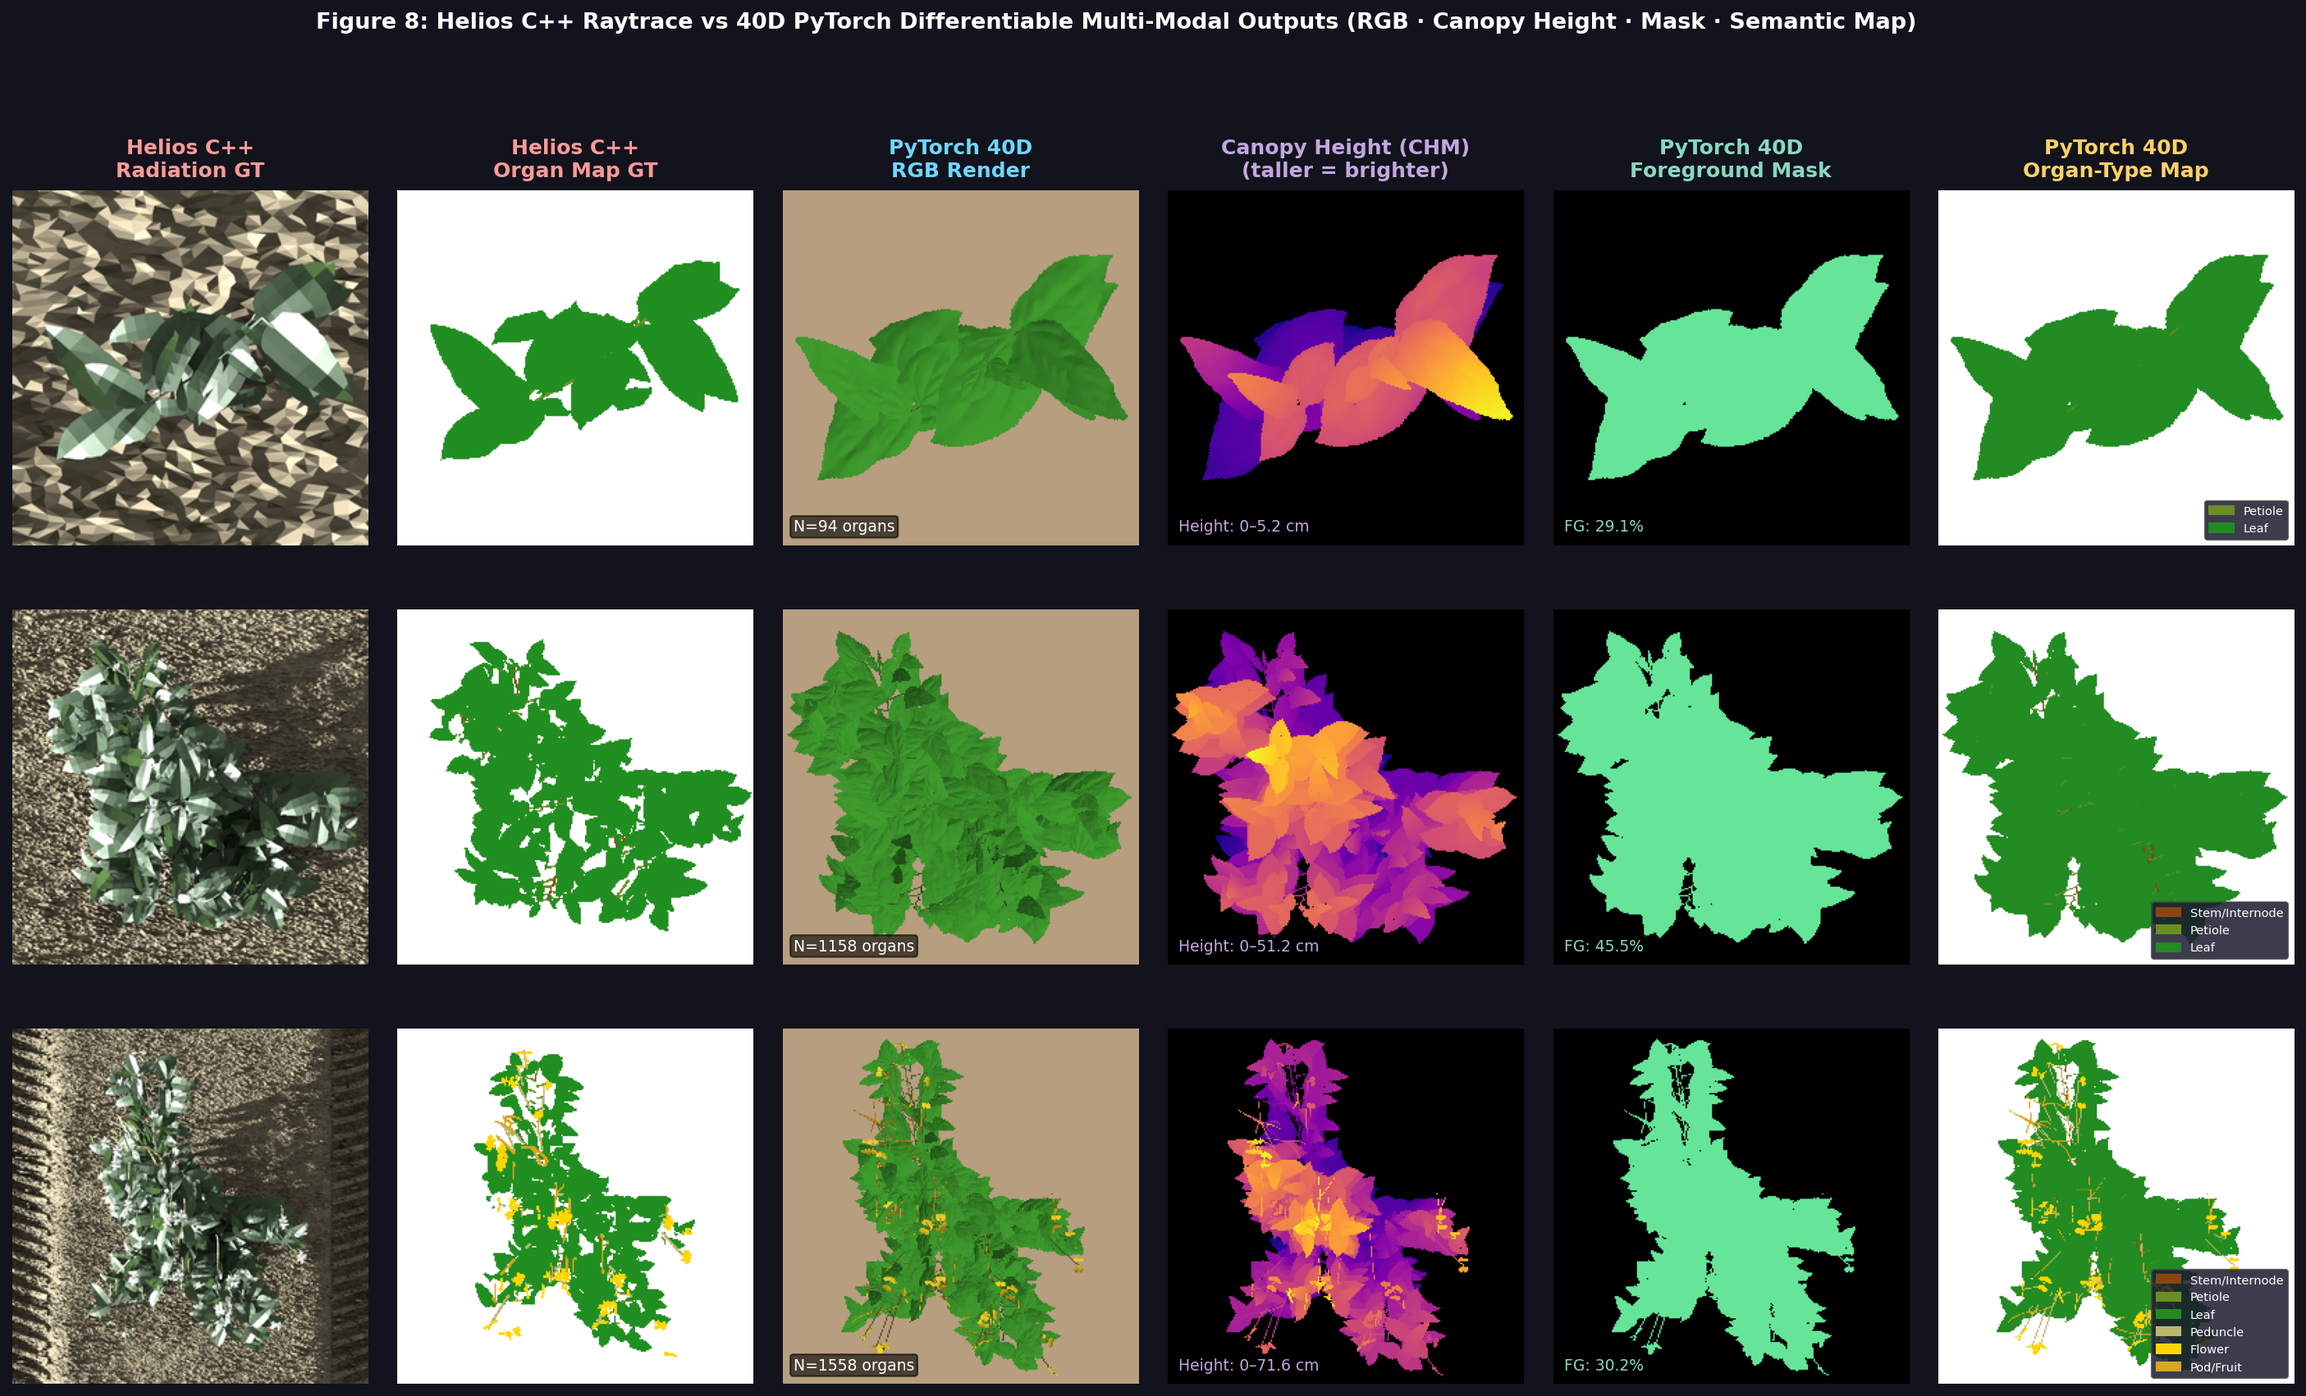
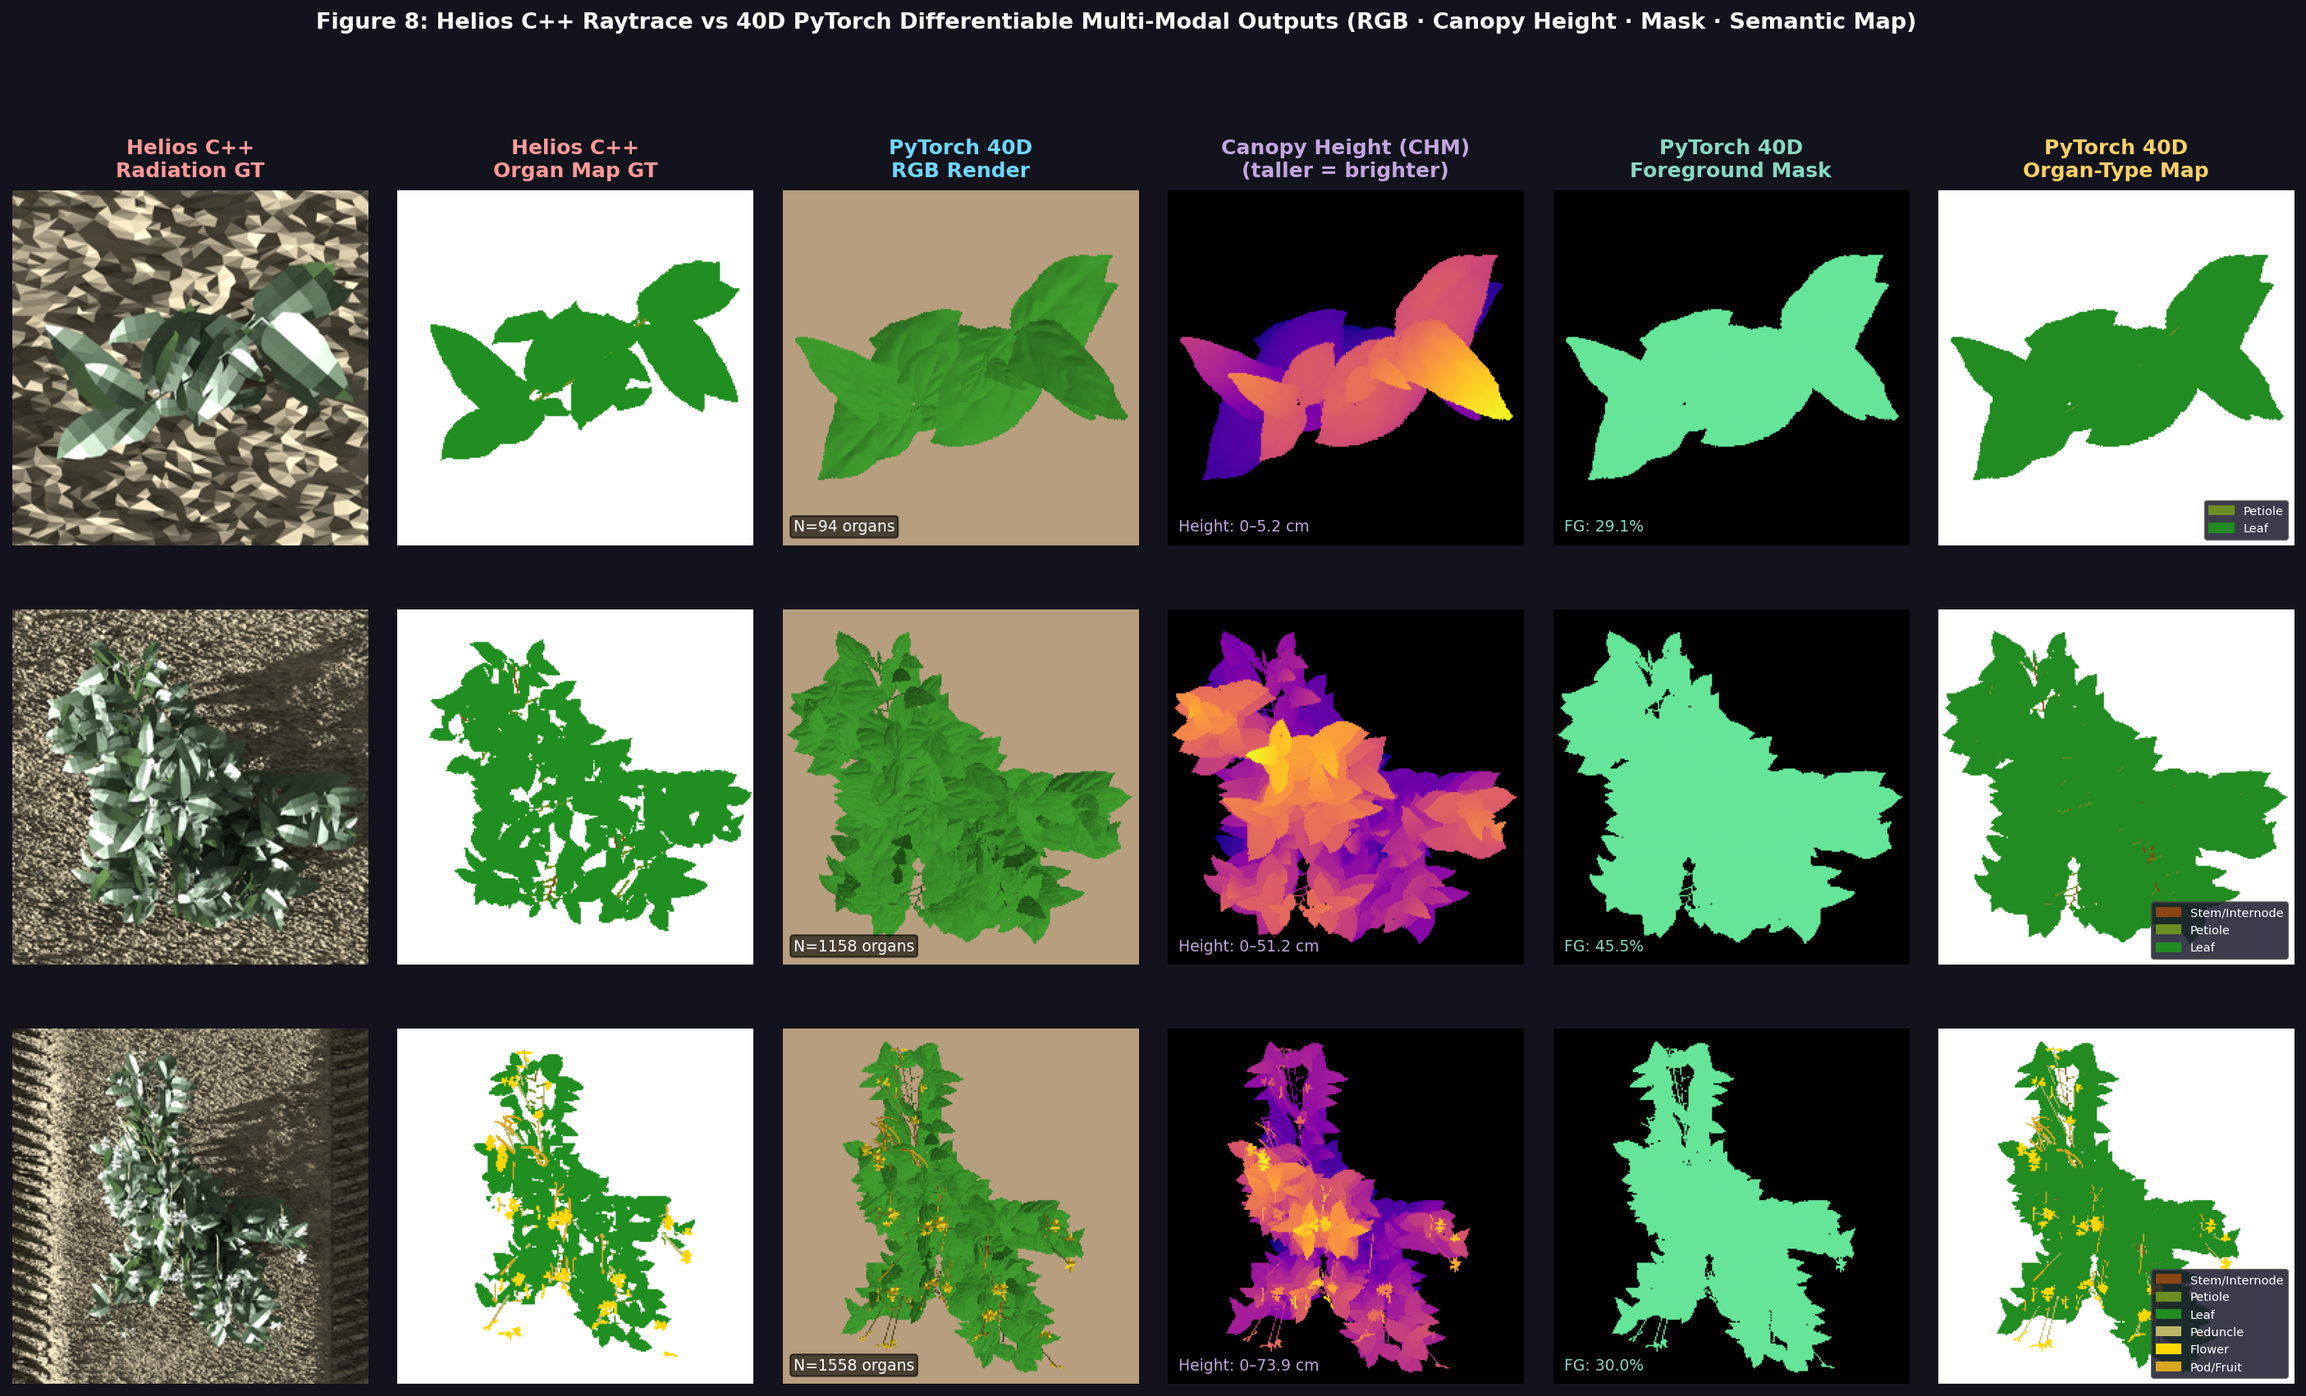
feat(eval): add flower/pod mask comparison figure and synchronize prototype scaling with Helios C++

diff --git a/diffusion_based/eval/compare_flower_pod_masks.py b/diffusion_based/eval/compare_flower_pod_masks.py
@@ -1,0 +1,185 @@
+"""
+Compare Flower and Pod masks between Helios C++ Ground Truth and PyTorch 40D Differentiable Renderer.
+Extracts per-organ masks, calculates IoU, Dice, Precision, Recall, and produces comparison figure.
+"""
+import os
+import sys
+import json
+import math
+import numpy as np
+import torch
+import matplotlib
+matplotlib.use("Agg")
+import matplotlib.pyplot as plt
+import matplotlib.patches as mpatches
+from PIL import Image, ImageDraw
+
+repo_root = os.path.abspath(os.path.join(os.path.dirname(__file__), "..", ".."))
+if repo_root not in sys.path:
+    sys.path.insert(0, repo_root)
+
+from diffusion_based.models.plant_organ_array import PlantOrganArray
+from diffusion_based.models.helios_pytorch_renderer import HeliosPyTorchRenderer
+
+DEVICE = torch.device("cuda" if torch.cuda.is_available() else "cpu")
+IMG_SIZE = 512  # High resolution for precise mask analysis
+
+EXACT_GT_DIR = os.path.join(repo_root, "Digital-Crops", "projects", "syntheticdata_generation", "build", "output", "exact_gt_renders")
+ASSETS_DIR = os.path.join(repo_root, "docs", "results", "assets")
+os.makedirs(ASSETS_DIR, exist_ok=True)
+
+xml_path = os.path.join(EXACT_GT_DIR, "rad_dap090_0000_plant_0000.xml")
+helios_rgb_path = os.path.join(EXACT_GT_DIR, "rad_dap090_0000_rad.jpeg")
+helios_masks_path = os.path.join(EXACT_GT_DIR, "rad_dap090_0000_masks.json")
+helios_cam_path = os.path.join(EXACT_GT_DIR, "rad_dap090_0000_camera_params.json")
+
+print("Loading DAP 90 plant XML and Helios Ground Truth...")
+arr = PlantOrganArray.from_xml_file(xml_path)
+renderer = HeliosPyTorchRenderer(image_size=IMG_SIZE).to(DEVICE)
+mesh = renderer.geo_builder.build_mesh_from_organ_array(arr, device=DEVICE, species="cowpea")
+
+# Read exact camera parameters
+cam_h = 5.0
+cam_el = 90.0
+cam_hfov = None
+if os.path.exists(helios_cam_path):
+    with open(helios_cam_path, "r") as f:
+        cam_data = json.load(f)
+    f_len = cam_data.get("camera_properties", {}).get("focal_length", 50.0)
+    s_w = cam_data.get("camera_properties", {}).get("sensor_width", 35.0)
+    cam_h = float(cam_data.get("acquisition_properties", {}).get("camera_height_m", 5.0))
+    cam_el = float(cam_data.get("acquisition_properties", {}).get("camera_angle_deg", 90.0))
+    cam_hfov = 2.0 * math.degrees(math.atan((s_w * 0.5) / max(f_len, 1e-3)))
+
+# Extract Helios GT masks
+coco_data = json.load(open(helios_masks_path))
+src_w = int(coco_data["images"][0].get("width", 720))
+src_h = int(coco_data["images"][0].get("height", 720))
+sx = IMG_SIZE / src_w
+sy = IMG_SIZE / src_h
+
+# Categories: 0: internode, 1: petiole, 2: leaf, 3: floral_bud, 4: flower, 5: pod
+gt_masks = {cat_id: np.zeros((IMG_SIZE, IMG_SIZE), dtype=bool) for cat_id in range(6)}
+
+for ann in coco_data["annotations"]:
+    cat = ann["category_id"]
+    if cat not in gt_masks:
+        continue
+    seg = ann["segmentation"]
+    if not isinstance(seg, list):
+        continue
+    canvas = Image.new("L", (IMG_SIZE, IMG_SIZE), 0)
+    draw = ImageDraw.Draw(canvas)
+    for poly in seg:
+        pts = []
+        for i in range(0, len(poly), 2):
+            pts.append((poly[i] * sx, poly[i + 1] * sy))
+        if len(pts) >= 3:
+            draw.polygon(pts, fill=1)
+    gt_masks[cat] = gt_masks[cat] | (np.array(canvas) > 0)
+
+# Render PyTorch 40D type buffer
+type_t = renderer.render_organ_type_buffer(
+    mesh,
+    azimuth_deg=0.0,
+    elevation_deg=cam_el,
+    camera_height=cam_h,
+    focus_plant=(cam_hfov is None),
+    hfov_override_deg=cam_hfov,
+    image_size=IMG_SIZE,
+)
+type_buf = type_t.detach().cpu().numpy()
+
+# PyTorch organ types: 0: stem, 1: petiole, 2: leaf, 3: peduncle, 4: flower, 5: pod
+pt_masks = {
+    3: (type_buf == 3),  # peduncle / floral bud
+    4: (type_buf == 4),  # flower
+    5: (type_buf == 5),  # pod
+}
+
+print("\n--- Quantitative Mask Overlap Statistics (DAP 90) ---")
+for organ_id, name in [(4, "Flower"), (5, "Pod"), (3, "Peduncle / Bud")]:
+    gt_m = gt_masks[organ_id]
+    pt_m = pt_masks[organ_id]
+    intersection = np.logical_and(gt_m, pt_m).sum()
+    union = np.logical_or(gt_m, pt_m).sum()
+    iou = intersection / max(union, 1)
+    dice = 2.0 * intersection / max(gt_m.sum() + pt_m.sum(), 1)
+    print(f"[{name}]")
+    print(f"  Helios GT Pixels: {gt_m.sum()} ({100.0 * gt_m.sum() / (IMG_SIZE*IMG_SIZE):.2f}%)")
+    print(f"  PyTorch 40D Pixels: {pt_m.sum()} ({100.0 * pt_m.sum() / (IMG_SIZE*IMG_SIZE):.2f}%)")
+    print(f"  Intersection: {intersection}")
+    print(f"  IoU: {iou:.4f}, Dice: {dice:.4f}")
+
+# Generate detailed comparison plot
+fig, axes = plt.subplots(3, 4, figsize=(20, 15))
+fig.patch.set_facecolor("#12131C")
+plt.subplots_adjust(wspace=0.08, hspace=0.15)
+
+rows = [
+    ("Flower (Category 4)", 4, "#FFD700"),
+    ("Pod / Fruit (Category 5)", 5, "#DAA520"),
+    ("Peduncle / Bud (Category 3)", 3, "#BDB76B"),
+]
+
+for r_idx, (title, cat_id, color_hex) in enumerate(rows):
+    gt_m = gt_masks[cat_id]
+    pt_m = pt_masks[cat_id]
+    
+    # Col 0: Helios GT
+    ax = axes[r_idx, 0]
+    ax.set_facecolor("#0d0d1a")
+    rgb_gt = np.zeros((IMG_SIZE, IMG_SIZE, 3), dtype=np.float32)
+    r = int(color_hex[1:3], 16) / 255.0
+    g = int(color_hex[3:5], 16) / 255.0
+    b = int(color_hex[5:7], 16) / 255.0
+    rgb_gt[gt_m] = [r, g, b]
+    ax.imshow(rgb_gt)
+    ax.axis("off")
+    ax.set_title(f"Helios GT {title}\n({gt_m.sum()} px)", fontsize=11, color="#ff9999", fontweight="bold")
+    
+    # Col 1: PyTorch 40D
+    ax = axes[r_idx, 1]
+    ax.set_facecolor("#0d0d1a")
+    rgb_pt = np.zeros((IMG_SIZE, IMG_SIZE, 3), dtype=np.float32)
+    rgb_pt[pt_m] = [r, g, b]
+    ax.imshow(rgb_pt)
+    ax.axis("off")
+    ax.set_title(f"PyTorch 40D {title}\n({pt_m.sum()} px)", fontsize=11, color="#70d6ff", fontweight="bold")
+    
+    # Col 2: Overlap / Diff
+    ax = axes[r_idx, 2]
+    ax.set_facecolor("#0d0d1a")
+    diff_rgb = np.zeros((IMG_SIZE, IMG_SIZE, 3), dtype=np.float32)
+    # Green = True Positive (overlap)
+    diff_rgb[gt_m & pt_m] = [0.1, 0.9, 0.2]
+    # Red = False Positive (PyTorch only)
+    diff_rgb[pt_m & ~gt_m] = [0.9, 0.2, 0.2]
+    # Blue = False Negative (Helios GT only)
+    diff_rgb[gt_m & ~pt_m] = [0.2, 0.4, 0.9]
+    ax.imshow(diff_rgb)
+    ax.axis("off")
+    intersection = np.logical_and(gt_m, pt_m).sum()
+    union = np.logical_or(gt_m, pt_m).sum()
+    iou = intersection / max(union, 1)
+    ax.set_title(f"Overlap (TP=Green, FP=Red, FN=Blue)\nIoU: {iou:.3f}", fontsize=11, color="#c3a6e0", fontweight="bold")
+    
+    # Col 3: Overlay on Plant RGB
+    ax = axes[r_idx, 3]
+    ax.set_facecolor("#0d0d1a")
+    if os.path.exists(helios_rgb_path):
+        base_img = np.array(Image.open(helios_rgb_path).resize((IMG_SIZE, IMG_SIZE))) / 255.0
+        overlay = base_img.copy() * 0.4
+        overlay[gt_m] = overlay[gt_m] + np.array([0.0, 0.6, 0.0]) # GT in green
+        overlay[pt_m] = overlay[pt_m] + np.array([0.6, 0.0, 0.6]) # PT in magenta
+        ax.imshow(np.clip(overlay, 0, 1))
+    ax.axis("off")
+    ax.set_title(f"Overlay on RGB\n(Green=GT, Magenta=PT)", fontsize=11, color="#ffd166", fontweight="bold")
+
+fig.suptitle("Flower, Pod, and Peduncle Mask Comparison: Helios C++ GT vs PyTorch 40D (DAP 90)", fontsize=14, fontweight="bold", color="white", y=0.99)
+
+out_path = os.path.join(ASSETS_DIR, "fig_flower_pod_mask_comparison.png")
+plt.savefig(out_path, dpi=150, bbox_inches="tight", facecolor=fig.get_facecolor())
+plt.close(fig)
+print(f"Saved: {out_path}")
+print("DONE")

diff --git a/diffusion_based/models/helios_pytorch_geometry.py b/diffusion_based/models/helios_pytorch_geometry.py
@@ -28,7 +28,7 @@ from diffusion_based.models.plant_organ_array import (
     COL_PET1_TAPER, COL_PET1_LEN_SEGS, COL_PET1_RAD_SUBDIV, COL_PET1_LFLT_SCALE,
     COL_PET1_LFLT_OFFSET, COL_PET1_NUM_LEAVES,
     COL_PET1_L0_SCALE, COL_PET1_L0_PITCH, COL_PET1_L0_YAW, COL_PET1_L0_ROLL,
-    COL_HAS_BUD, COL_BUD_STATE, COL_BUD_IS_TERMINAL, COL_BUD_FRUIT_SCALE,
+    COL_HAS_BUD, COL_BUD_STATE, COL_BUD_IDX, COL_BUD_IS_TERMINAL, COL_BUD_FRUIT_SCALE,
     COL_PED_LEN, COL_PED_RAD, COL_PED_PITCH, COL_PED_CURV, COL_PED_ROLL,
     COL_NUM_FLOWERS, COL_FLOWER_OFFSET, COL_FL0_PITCH, COL_FL0_YAW, COL_FL0_ROLL, COL_FL0_AZIMUTH, COL_FL0_BASE_SCALE
 )
@@ -1028,8 +1028,21 @@ class HeliosPlantGeometryBuilder:
                                 infl_bend_axis = torch.tensor([1.0, 0.0, 0.0], device=device)
                         infl_bend_axis = infl_bend_axis / torch.linalg.norm(infl_bend_axis)
 
-                        ped_pitch_rad = math.radians(float(ped_pitch_deg.item()))
+                        # Base rotation adjustment from bud index (InputOutput.cpp:2098-2111)
+                        bud_idx = int(row[COL_BUD_IDX].item()) if row.shape[0] > COL_BUD_IDX else 0
+                        if is_terminal_bud:
+                            base_pitch_adj = 0.0
+                        else:
+                            base_pitch_adj = bud_idx * 0.1 * math.pi
+
+                        ped_pitch_rad = math.radians(float(ped_pitch_deg.item())) + base_pitch_adj
                         ped_axis = rotate_vector_about_axis(inode_tip_axis, infl_bend_axis, ped_pitch_rad)
+
+                        # Azimuthal alignment to parent petiole (InputOutput.cpp:1678-1687)
+                        parent_pet_az = -math.atan2(float(curr_pet_axis[1].item()), float(curr_pet_axis[0].item()))
+                        cur_ped_az = -math.atan2(float(ped_axis[1].item()), float(ped_axis[0].item()))
+                        az_rot = cur_ped_az - parent_pet_az
+                        ped_axis = rotate_vector_about_axis(ped_axis, inode_tip_axis, az_rot)
                         ped_axis = ped_axis / (torch.linalg.norm(ped_axis) + 1e-6)
 
                         # Generate segmented curved peduncle vertices (InputOutput.cpp:2186-2214)
@@ -1071,8 +1084,11 @@ class HeliosPlantGeometryBuilder:
 
                     # Flowers & Pods
                     is_bean = (species is not None and "bean" in species.lower())
+                    fl_count = min(max(num_flowers, 1 if (bud_state in [2, 3, 4]) else 0), 4)
+                    fl_offset = float(row[COL_FLOWER_OFFSET].item()) if row.shape[0] > COL_FLOWER_OFFSET else 0.05
+                    fl_offset_clamped = min(fl_offset, 1.0 / (0.5 * fl_count - 1.0) if fl_count > 2 else fl_offset)
 
-                    for fl_i in range(min(max(num_flowers, 1 if (bud_state in [2, 3, 4]) else 0), 4)):
+                    for fl_i in range(fl_count):
                         fl_base_col = COL_FL0_PITCH + fl_i * 5
                         fl_pitch_deg = row[fl_base_col] if fl_base_col < row.shape[0] else torch.tensor(30.0, device=device)
                         fl_yaw_deg = row[fl_base_col + 1] if fl_base_col + 1 < row.shape[0] else torch.tensor(0.0, device=device)
@@ -1083,14 +1099,16 @@ class HeliosPlantGeometryBuilder:
                         if fl_scale <= 1e-4:
                             fl_scale = torch.tensor(0.09, device=device)
 
-                        tot_fl_scale = fl_scale * node_exist
-
                         # Determine if Pod or Flower
                         is_pod = (bud_state == 4)
                         if is_pod:
                             obj_name = "BeanPod.obj" if is_bean else "CowpeaPod.obj"
                             col_mesh = self.COLOR_POD.to(device)
                             organ_type_val = 5 # Pod/Fruit
+                            # In Helios Assets.cpp:410, CowpeaPod is loaded with height=0.75m normalized along Z
+                            # CowpeaPod.obj Z extent is 0.2891m, so prototype scale is 0.75 / 0.2891 = 2.594
+                            pod_proto_scale = 2.594 if not is_bean else 1.0
+                            tot_fl_scale = fl_scale * pod_proto_scale * (fruit_scale if fruit_scale > 0.0 else 1.0) * node_exist
                         else:
                             if is_bean:
                                 obj_name = "BeanFlower_open_white.obj" if bud_state == 3 else "BeanFlower_closed_white.obj"
@@ -1099,6 +1117,7 @@ class HeliosPlantGeometryBuilder:
                                 obj_name = "CowpeaFlower_open_yellow.obj" if bud_state == 3 else "CowpeaFlower_closed_yellow.obj"
                                 col_mesh = self.COLOR_FLOWER.to(device)
                             organ_type_val = 4 # Flower
+                            tot_fl_scale = fl_scale * node_exist
 
                         try:
                             v_fl_b, f_fl_b = self.asset_mgr.get_mesh(obj_name)
@@ -1108,6 +1127,19 @@ class HeliosPlantGeometryBuilder:
                         v_fl_b = v_fl_b.to(device) * tot_fl_scale
                         f_fl_b = f_fl_b.to(device)
 
+                        # Compute flower attachment point along peduncle (InputOutput.cpp:2263-2270)
+                        ind_from_tip = abs(fl_i - (fl_count - 1.0))
+                        if fl_count > 1 and fl_offset_clamped > 0.0 and ind_from_tip > 1e-4 and len(ped_verts_list) > 1:
+                            frac = 1.0 - (ind_from_tip - 0.5) * fl_offset_clamped
+                            frac = max(0.0, min(1.0, frac))
+                            idx_f = frac * (len(ped_verts_list) - 1)
+                            idx_0 = int(math.floor(idx_f))
+                            idx_1 = min(idx_0 + 1, len(ped_verts_list) - 1)
+                            t_interp = idx_f - idx_0
+                            cur_fl_base = ped_verts_list[idx_0] * (1.0 - t_interp) + ped_verts_list[idx_1] * t_interp
+                        else:
+                            cur_fl_base = ped_tip
+
                         # Flower rotation (PlantArchitecture.cpp:2270-2285)
                         pitch_r = math.radians(float(fl_pitch_deg.item()))
                         yaw_r = math.radians(float(fl_yaw_deg.item()))
@@ -1116,7 +1148,7 @@ class HeliosPlantGeometryBuilder:
 
                         R_fl = (
                             rotr_z(az_r, device) @
-                            rotr_y(-pitch_r, device) @
+                            rotr_y(pitch_r, device) @
                             rotr_x(roll_r, device)
                         )
 
@@ -1124,7 +1156,7 @@ class HeliosPlantGeometryBuilder:
                         if abs(yaw_r) > 1e-4:
                             R_yaw = rodrigues_matrix_torch(ped_axis_final, torch.tensor(yaw_r, device=device), device=device)
                             v_fl_rot = (R_yaw @ v_fl_rot.T).T
-                        v_fl = v_fl_rot + ped_tip
+                        v_fl = v_fl_rot + cur_fl_base
 
                         n_fl = compute_face_normals_torch(v_fl, f_fl_b)
                         c_fl = col_mesh.unsqueeze(0).repeat(v_fl.shape[0], 1)
